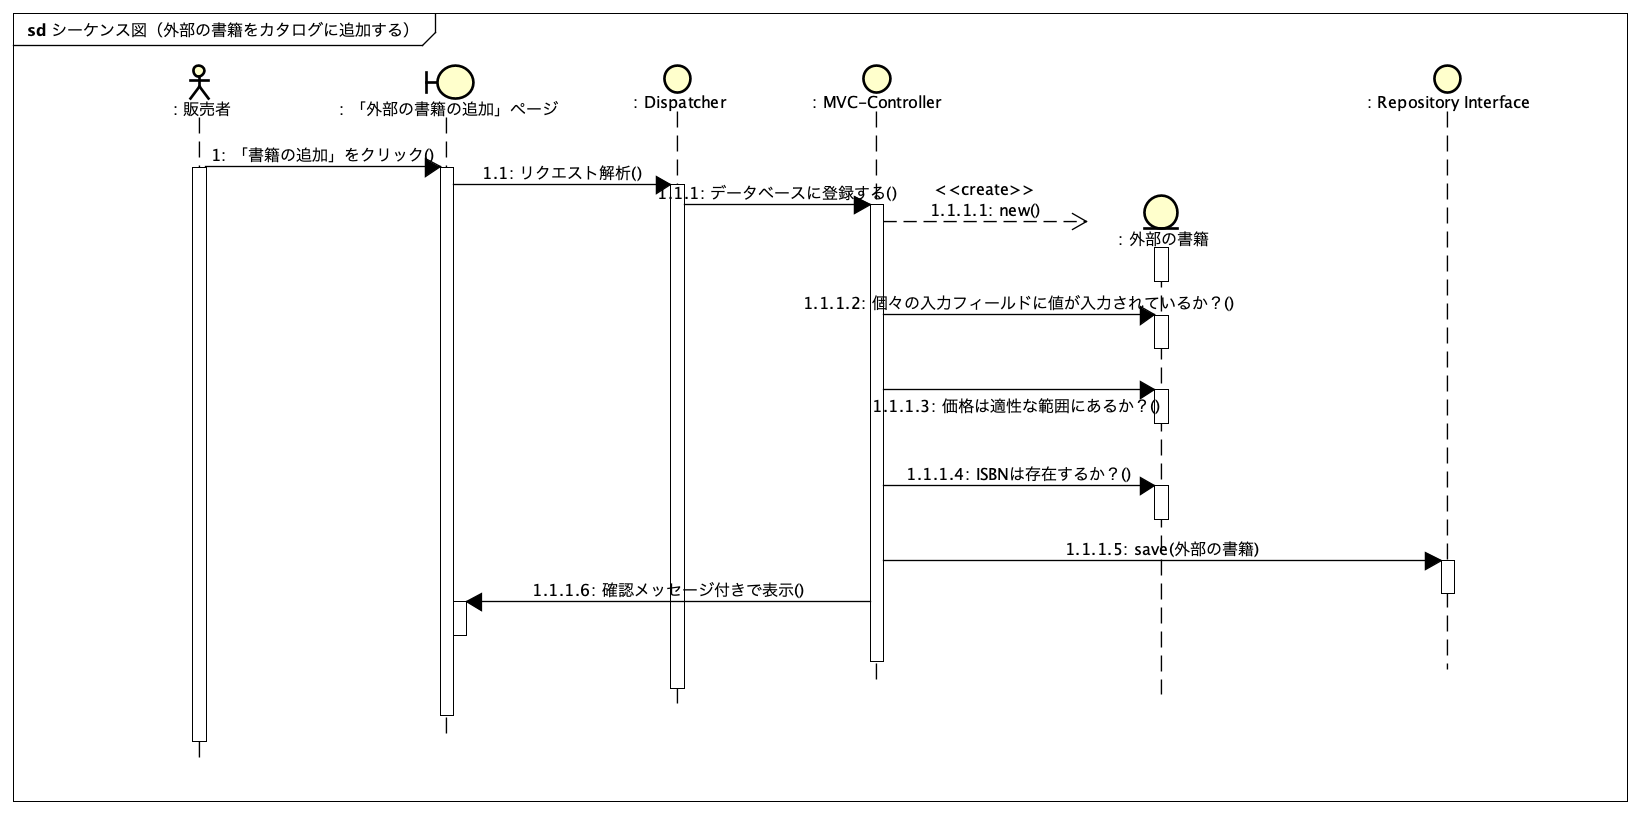
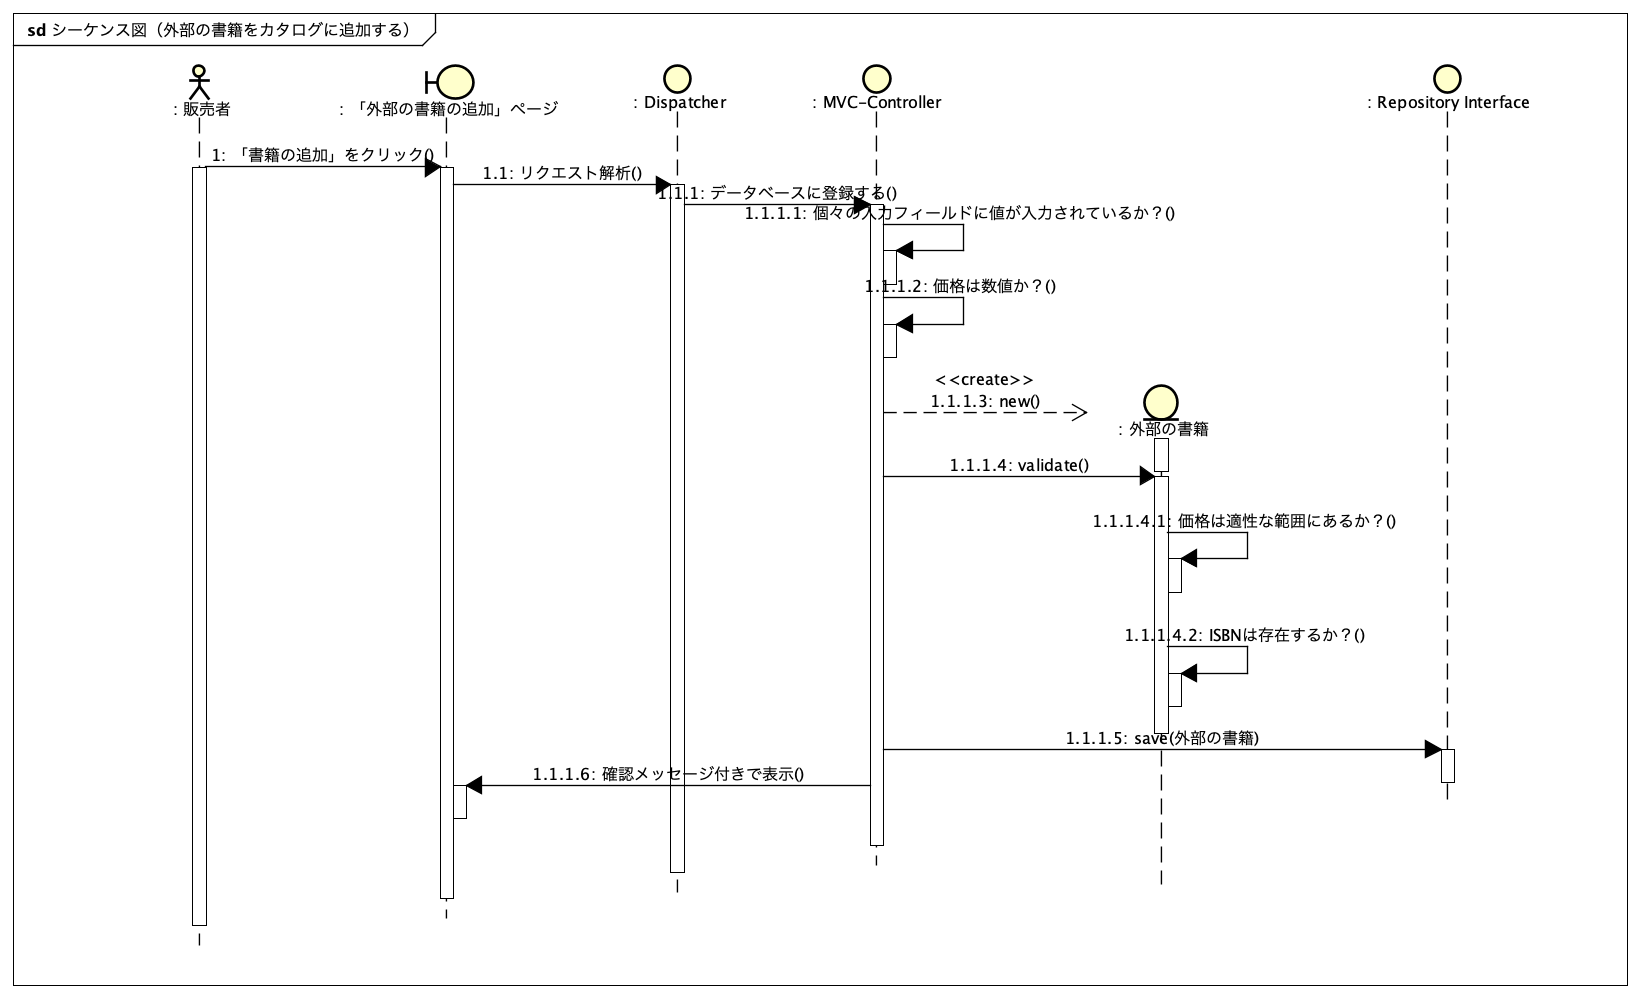
「ユースケース駆動開発実践ガイド: 第8章 8.3 シーケンス図作成の実践: 練習問題」の練習問題8.1 の解答

diff --git a/docs/シーケンス図作成における犯しやすい過ち.md b/docs/シーケンス図作成における犯しやすい過ち.md
@@ -6,10 +6,11 @@
 
 #### 答案
 
-1. バウンダリからアクターへ不要な矢印が向いている
+1. ~~バウンダリからアクターへ不要な矢印が向いている~~
 1. アクターからバウンダリへのメッセージが、ロバストネス図の通りでない
-1. 他のエンティティとやり取りしていないメッセージがある
-1. 代替コースの表現が抜けている
+1. ~~他のエンティティとやり取りしていないメッセージがある~~
+1. ~~代替コースの表現が抜けている~~
+1. 振る舞いが正しいオブジェクトに割り当てられていない。
 
 
 ### 練習問題8.2: 図8.19
